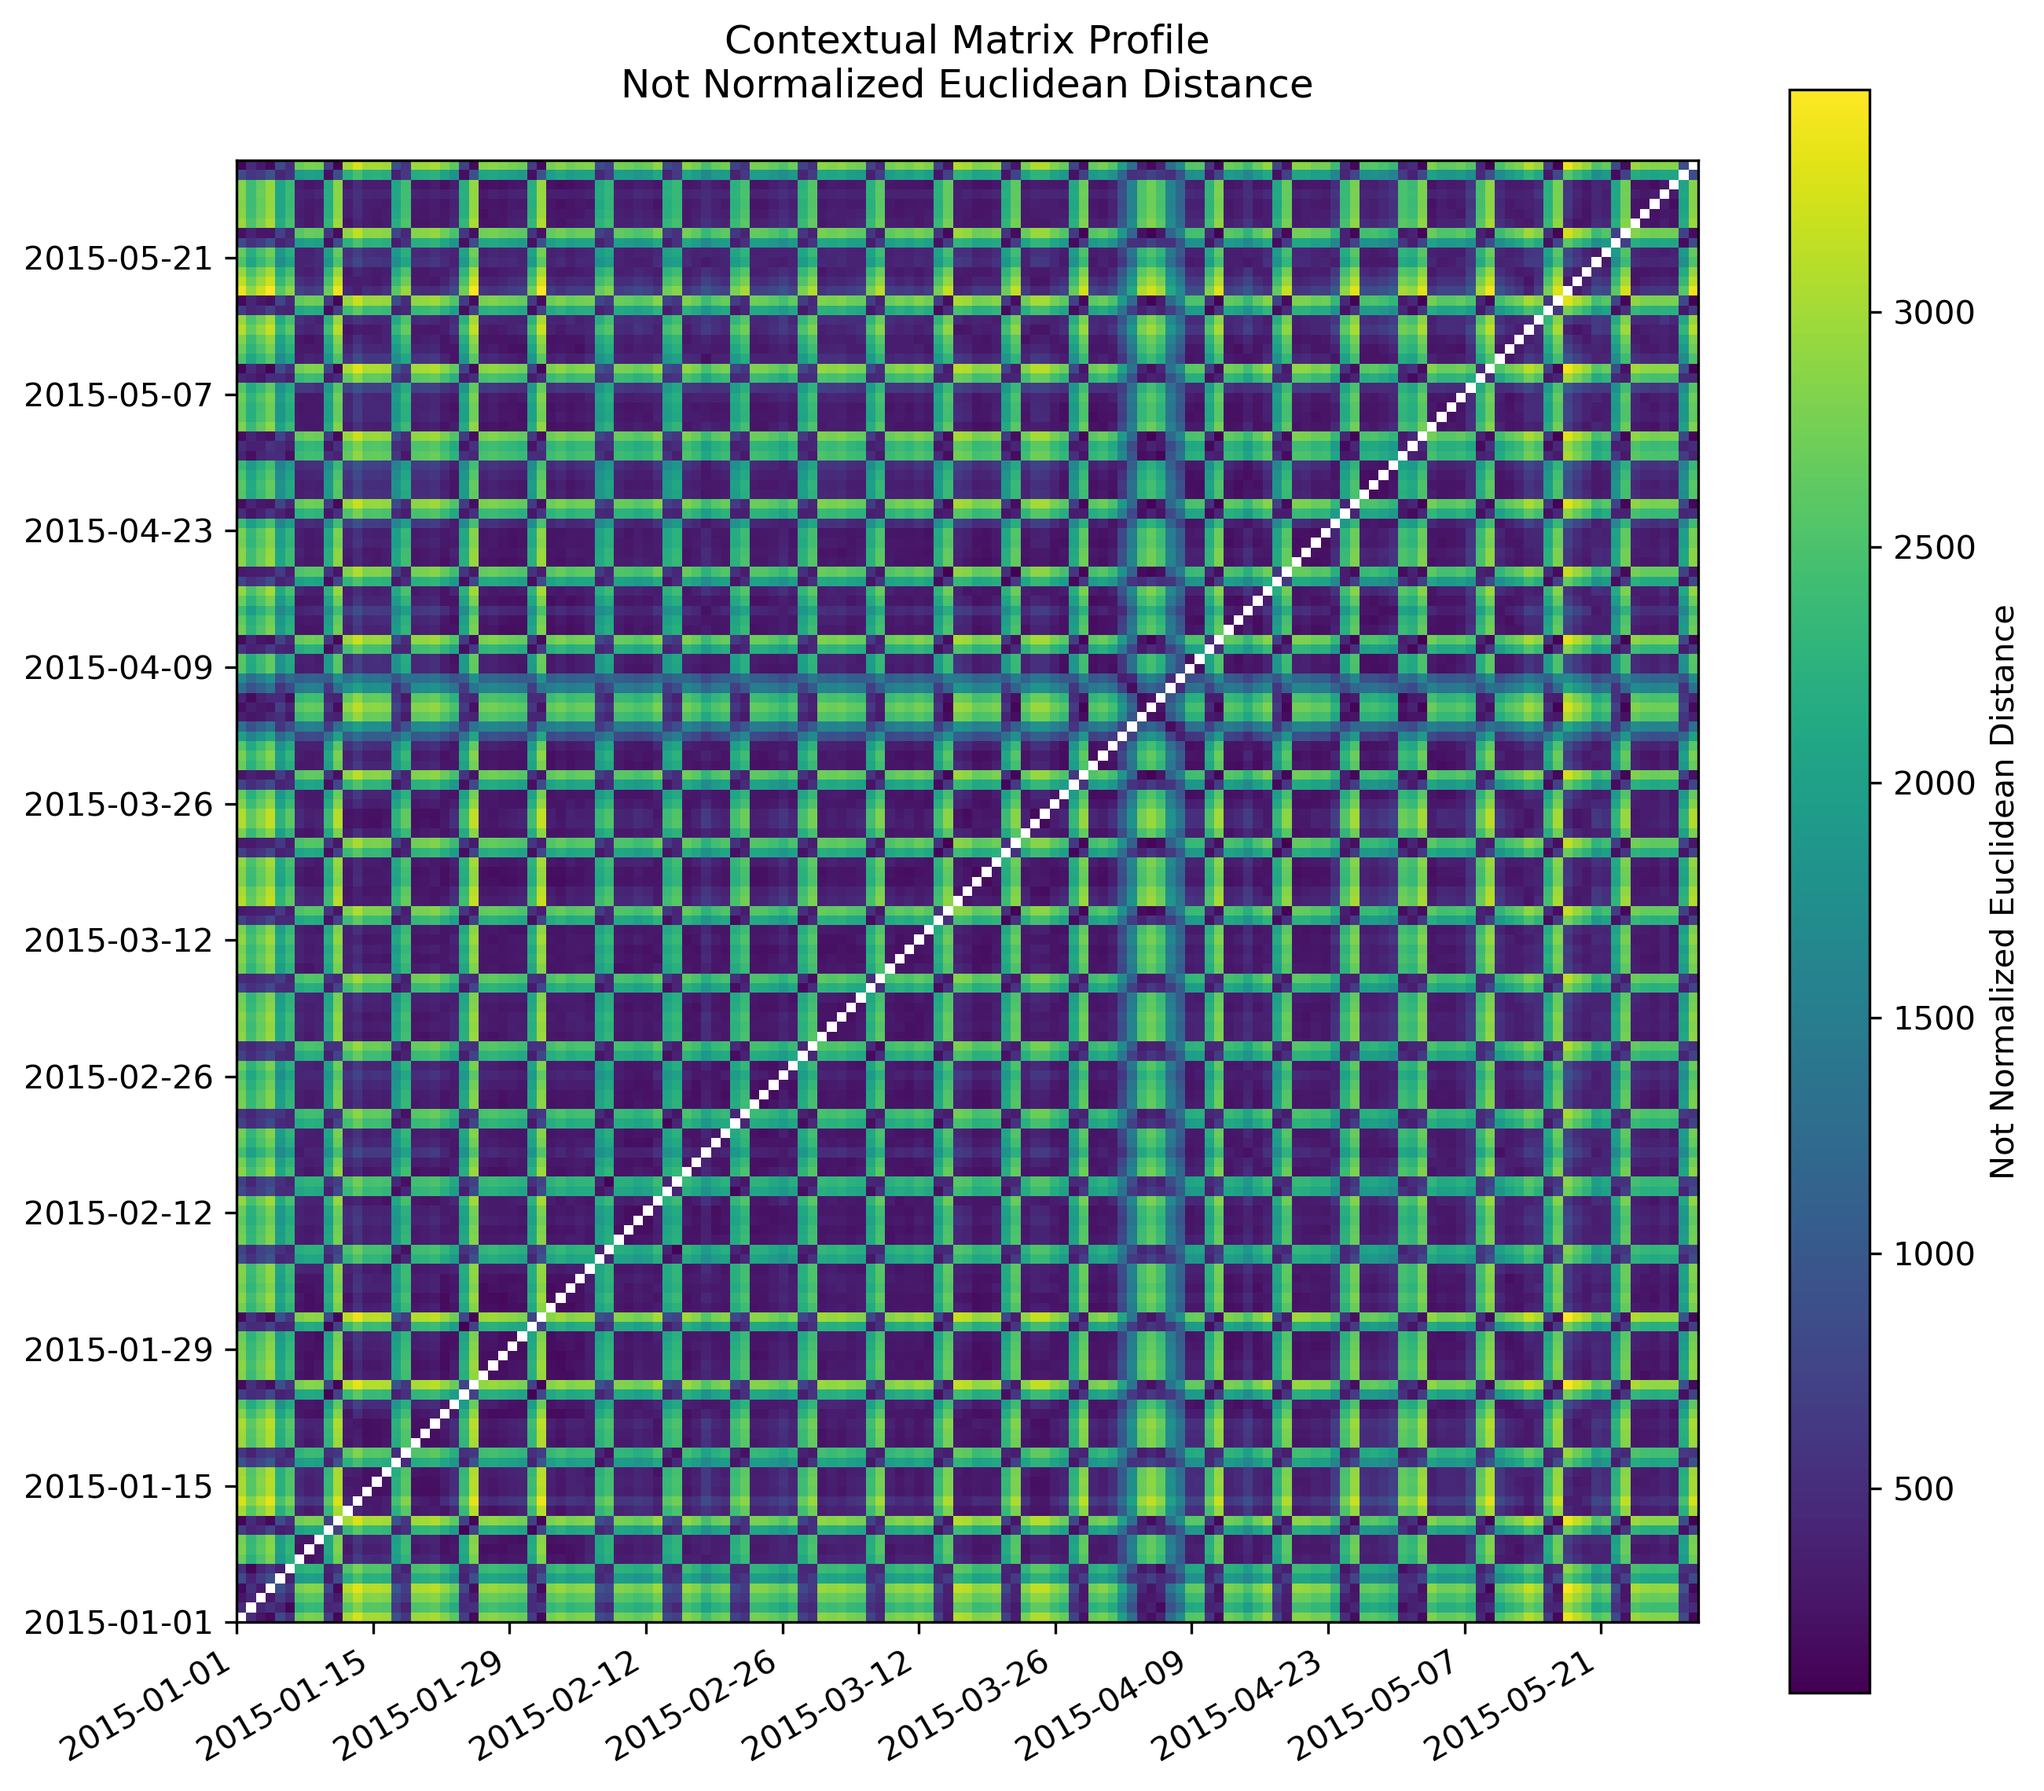
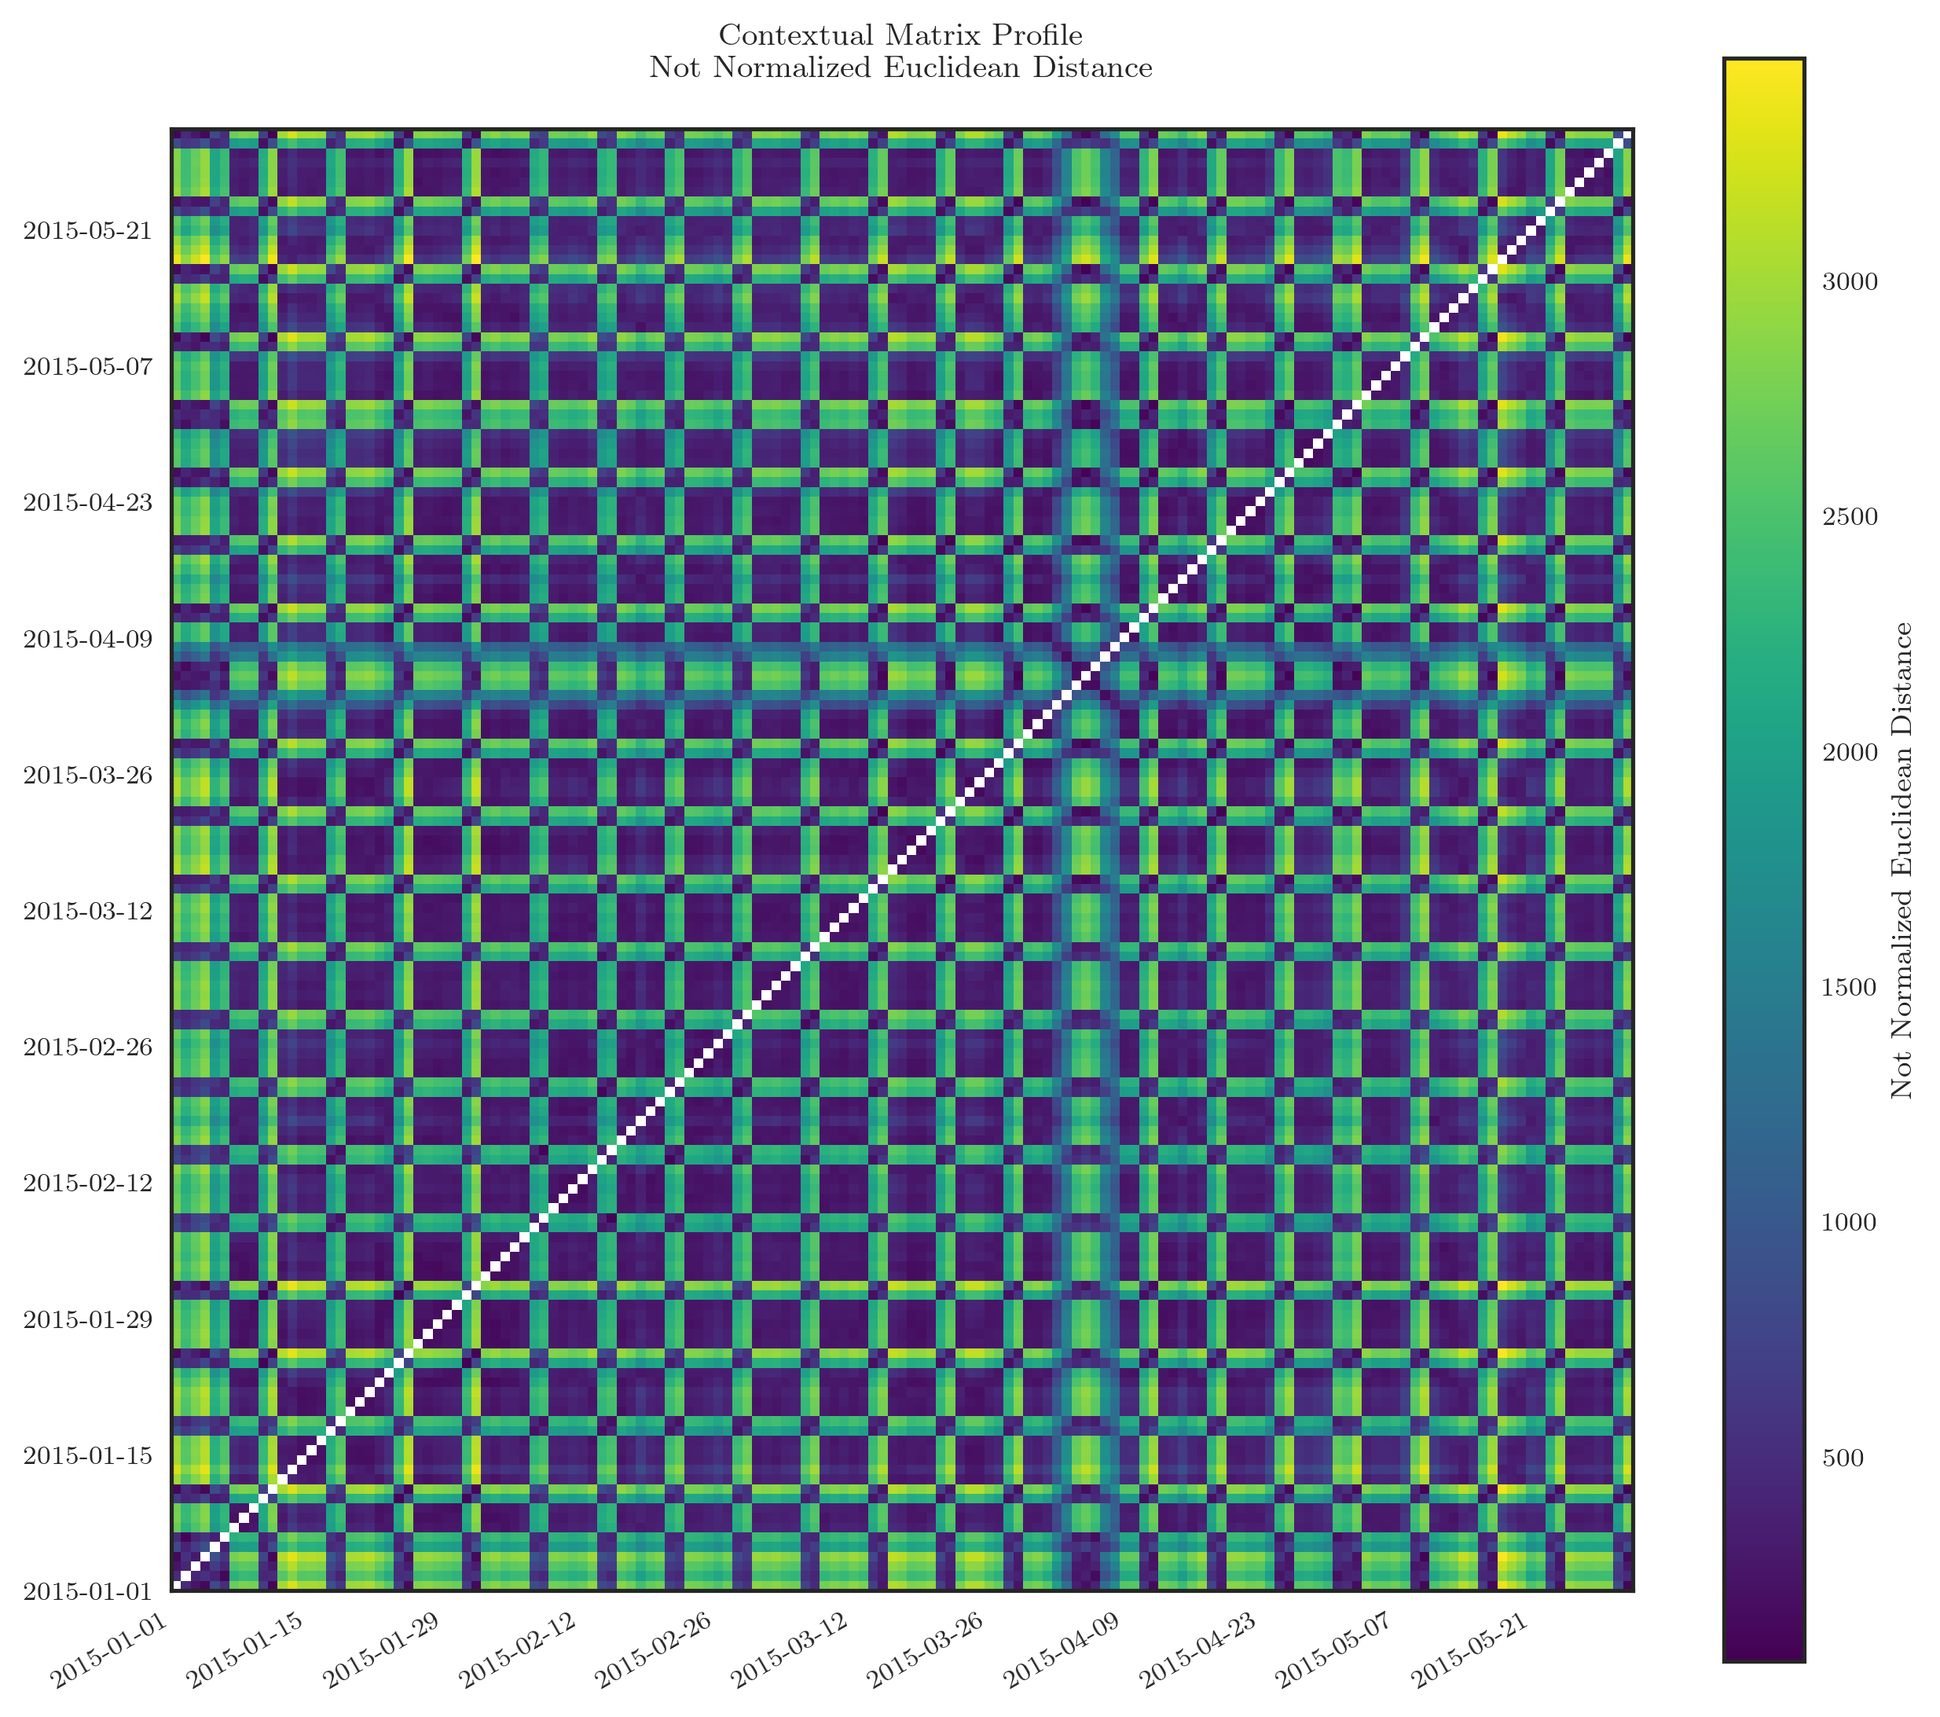
added generalization to code

diff --git a/Roberto Chiosa/CMP/Polito_Usecase_1.py b/Roberto Chiosa/CMP/Polito_Usecase_1.py
@@ -11,10 +11,66 @@ from distancematrix.generator import ZNormEuclidean, Euclidean
 from distancematrix.consumer import MatrixProfileLR, ContextualMatrixProfile
 from distancematrix.consumer.contextmanager import GeneralStaticManager
 
+from matplotlib import rc  # font plot
+from kneed import KneeLocator  # find knee of curve
+
 path_to_data = 'Polito_Usecase/data/'
 path_to_figures = 'Polito_Usecase/figures1/'
 color_palette = 'viridis'
 dpi_resolution = 300
+fontsize = 10
+# plt.style.use("seaborn-paper")
+rc('font', **{'family': 'serif', 'serif': ['Georgia']})
+plt.rcParams.update({'font.size': fontsize})
+rc('text', usetex=True)
+
+
+def CMP_plot(cmp, palette="viridis", title=None, xlabel=None, legendlabel=None, extent=None):
+    """
+    utils function used to plot the contextual matrix profile
+
+    :param cmp:
+    :param extent:
+    :param palette:
+    :param title:
+    :param xlabel:
+    :param legendlabel:
+    :return:
+    """
+
+    if extent is not None:
+        # no extent dates given
+        plt.imshow(cmp,
+                   cmap=palette,
+                   origin="lower",
+                   extent=extent
+                   )
+        # Label layout
+        plt.gca().xaxis.set_major_formatter(mdates.DateFormatter('%Y-%m-%d'))
+        plt.gca().yaxis.set_major_formatter(mdates.DateFormatter('%Y-%m-%d'))
+        plt.gca().xaxis.set_major_locator(mticker.MultipleLocator(14))
+        plt.gca().yaxis.set_major_locator(mticker.MultipleLocator(14))
+        plt.gcf().autofmt_xdate()
+
+    else:
+        # index as
+        plt.imshow(cmp,
+                   cmap=palette,
+                   origin="lower",
+                   vmin=np.min(cmp),
+                   vmax=np.max(cmp)
+                   )
+        plt.xlabel(xlabel)
+        ticks = list(range(0, len(cmp), int(len(cmp) / 5)))
+        plt.xticks(ticks)
+        plt.yticks(ticks)
+
+    cbar = plt.colorbar()
+
+    plt.title(title)
+    cbar.set_label(legendlabel)
+
+
 ########################################################################################
 # load dataset
 data = pd.read_csv(path_to_data + "polito.csv", index_col='timestamp', parse_dates=True)
@@ -28,8 +84,8 @@ print(' POLITO CASE STUDY\n',
       '- From\t', data.index[0], '\n',
       '- To\t', data.index[len(data) - 1], '\n',
       '-', len(data), 'observations every 15 min\n',
-      '-',obs_per_day,'\t observations per day\n',
-      '-',obs_per_hour,'\t observations per hour\n'
+      '-', obs_per_day, '\t observations per day\n',
+      '-', obs_per_hour, '\t observations per hour\n'
       )
 
 # Visualise the data
@@ -76,11 +132,12 @@ plt.savefig(path_to_figures + "polito.png", dpi=dpi_resolution, bbox_inches='tig
 # context time window length (hours)
 m_context = 2
 
-# time window length
-m = obs_per_day - obs_per_hour * m_context  # 22 hours
+# time window length 96 observations - 4 observation/hour * 2 hours = 88 observations = 22 hours
+m = obs_per_day - obs_per_hour * m_context
 
-# Each context starts between 0 and 2 AM, and lasts 22 hours
-contexts = GeneralStaticManager([range(x * obs_per_day, (x * obs_per_day) + obs_per_hour * m_context) for x in range(len(data) // obs_per_day)])
+# Each context starts between 0 and 2 AM (m_context = 2 hours), and lasts 22 hours (m = 88 observations)
+contexts = GeneralStaticManager(
+    [range(x * obs_per_day, (x * obs_per_day) + obs_per_hour * m_context) for x in range(len(data) // obs_per_day)])
 
 calc = AnytimeCalculator(m, data.values.T)
 
@@ -88,7 +145,6 @@ calc = AnytimeCalculator(m, data.values.T)
 # - OPTION 1
 # distance_string = 'Znormalized Euclidean Distance'
 # calc.add_generator(0, ZNormEuclidean())
-
 # - OPTION 2
 distance_string = 'Not Normalized Euclidean Distance'
 calc.add_generator(0, Euclidean())
@@ -106,34 +162,37 @@ calc.calculate_columns()
 # Visualise the whole CMP
 
 # calculate the date labels to define the extent of figure
-date_labels = mdates.date2num(data.index[::48 * 2].values)
+date_labels = mdates.date2num(data.index[::m].values)
 
 # plot CMP as matrix
 plt.figure(figsize=(10, 10))
-extents = [date_labels[0], date_labels[-1], date_labels[0], date_labels[-1]]
-plt.imshow(cmp.distance_matrix, extent=extents, cmap=color_palette, origin="lower")
-cbar = plt.colorbar()
-plt.title('Contextual Matrix Profile\n'+distance_string+'\n')
 
-# Label layout
-plt.gca().xaxis.set_major_formatter(mdates.DateFormatter('%Y-%m-%d'))
-plt.gca().yaxis.set_major_formatter(mdates.DateFormatter('%Y-%m-%d'))
-plt.gca().xaxis.set_major_locator(mticker.MultipleLocator(14))
-plt.gca().yaxis.set_major_locator(mticker.MultipleLocator(14))
-plt.gcf().autofmt_xdate()
-cbar.set_label(distance_string)
+extents = [date_labels[0], date_labels[-1], date_labels[0], date_labels[-1]]
+CMP_plot(cmp=cmp.distance_matrix,
+         palette=color_palette,
+         title='Contextual Matrix Profile\n' + distance_string + '\n',
+         legendlabel=distance_string,
+         extent=extents,
+         )
+
 
 plt.savefig(path_to_figures + "polito_cmp1.png", dpi=dpi_resolution, bbox_inches='tight')
 
 ########################################################################################
 # Create boolean arrays to indicate whether each day is a weekday/weekend/saturday/sunday
+# - holiday (calendar holidays and academic calendar closures)
+# - saturdays (not holidays not working days)
+# - workingdays (not holiday and not saturdays)
 
+# load data
 annotation_df = pd.read_csv(path_to_data + "polito_holiday.csv", index_col='timestamp', parse_dates=True)
 
+# define arrays
 holiday = np.array(annotation_df.T)[0]
 saturdays = np.array(annotation_df.T)[1]
 workingdays = np.array(annotation_df.T)[2]
 
+# set labels
 day_labels = data.index[::obs_per_day]
 
 # Create weekday/weekend only CMP
@@ -169,72 +228,49 @@ cmp_ad_score[workingdays] = cmp_workingdays_score
 # Ordering of all days, from most to least anomalous
 ad_order = np.argsort(cmp_ad_score)[::-1]
 
-num_anomalies_to_show = 15
+# set number of aomalies to show as the elbow of the curve
+x_ad = np.array(range(0, len(cmp_ad_score)))
+y_ad = cmp_ad_score[ad_order]
+kn = KneeLocator(x_ad, y_ad, curve='convex', direction='decreasing')
+num_anomalies_to_show = kn.knee
 
 # Plot the anomaly scores and our considered threshold
-plt.figure(figsize=(15, 3))
+plt.figure(figsize=(10, 5))
 plt.title("Sorted Anomaly Scores")
 plt.plot(cmp_ad_score[ad_order])
 plt.ylabel("Anomaly Score")
-
 plt.axvline(num_anomalies_to_show, ls=":", c="gray")
-plt.xticks([0, 10, 20, 50, 100, 150])
-plt.show()
+anomaly_ticks = list(range(0, len(ad_order), int(len(ad_order) / 5)))
+anomaly_ticks.append(num_anomalies_to_show)
+plt.xticks(anomaly_ticks)
 
-# Plot the above figures together
-plt.figure(figsize=(17, 2.5))
-plt.subplot(1, 4, 1)
-date_labels = mdates.date2num(holiday_dates)
-extents = [date_labels[0], date_labels[-1], date_labels[0], date_labels[-1]]
-plt.imshow(holiday_cmp,
-           cmap=color_palette,
-           origin="lower",
-           vmin=np.min(holiday_cmp),
-           vmax=np.max(holiday_cmp),
-           )
-cbar = plt.colorbar()
-plt.xlabel("Holiday Index")
-# plt.yticks([0, 50, 100, 150])
-plt.title("Power CMP (holiday only)")
-cbar.set_label("Distance")
+plt.savefig(path_to_figures + "polito_aggregated_as.png", dpi=dpi_resolution, bbox_inches='tight')
 
-plt.subplot(1, 4, 2)
-date_labels = mdates.date2num(saturday_dates)
-extents = [date_labels[0], date_labels[-1], date_labels[0], date_labels[-1]]
-plt.imshow(saturday_cmp,
-           cmap=color_palette,
-           origin="lower",
-           vmin=np.min(saturday_cmp),
-           vmax=np.max(saturday_cmp),
-           )
-cbar = plt.colorbar()
-plt.xlabel("Saturday Index")
-# plt.yticks([0, 10, 20, 30])
-plt.title("Power CMP (Saturday only)")
-cbar.set_label("Distance")
+# Plot the CMP together
+plt.figure(figsize=(10, 4))
 
-plt.subplot(1, 4, 3)
-date_labels = mdates.date2num(workingdays_dates)
-extents = [date_labels[0], date_labels[-1], date_labels[0], date_labels[-1]]
-plt.imshow(workingdays_cmp,
-           cmap=color_palette,
-           origin="lower",
-           vmin=np.min(workingdays_cmp),
-           vmax=np.max(workingdays_cmp),
-           )
-cbar = plt.colorbar()
-plt.xlabel("Working days Index")
-# plt.yticks([0, 10, 20])
-plt.title("Power CMP (Working days only)")
-cbar.set_label("Distance")
+plt.subplot(1, 3, 1)
+CMP_plot(cmp=holiday_cmp,
+         palette=color_palette,
+         title="Power CMP (holiday only)",
+         xlabel="Holiday Index",
+         legendlabel="Distance")
 
-plt.subplot(1, 4, 4)
-plt.title("Sorted Anomaly Scores")
-plt.plot(cmp_ad_score[ad_order])
-plt.ylabel("Anomaly Score")
+plt.subplot(1, 3, 2)
+CMP_plot(cmp=saturday_cmp,
+         palette=color_palette,
+         title="Power CMP (Saturday only)",
+         xlabel="Saturday Index",
+         legendlabel="Distance")
 
-plt.axvline(10, ls=":", c="gray")
-# plt.xticks([0, 18, 50, 100, 150, 200])
+plt.subplot(1, 3, 3)
+CMP_plot(cmp=workingdays_cmp,
+         palette=color_palette,
+         title="Power CMP (Working days  only)",
+         xlabel="Working days  Index",
+         legendlabel="Distance")
+
+plt.tight_layout()
 
 plt.savefig(path_to_figures + "polito_cmp_detail1.png", dpi=dpi_resolution, bbox_inches='tight')
 
@@ -276,21 +312,28 @@ for i in range(num_anomalies_to_show):
 
     ax[i, 0].plot(data.values.reshape((-1, obs_per_day)).T, c="gray", alpha=0.07)
     ax[i, 0].plot(data.values[anomaly_range], c="red")
+    ax[i, 0].set_ylim([0, 850])
+    ax[i, 0].set_yticks([0, 200, 400, 600, 800])
 
     ax[i, 1].plot(data.values.reshape((-1, obs_per_day))[holiday].T, c="gray", alpha=0.07)
     ax[i, 1].plot(data.values[anomaly_range], c="red", linestyle=ls1)
+    ax[i, 1].set_ylim([0, 850])
+    ax[i, 1].set_yticks([0, 200, 400, 600, 800])
 
     ax[i, 2].plot(data.values.reshape((-1, obs_per_day))[saturdays].T, c="gray", alpha=0.07)
     ax[i, 2].plot(data.values[anomaly_range], c="red", linestyle=ls2)
+    ax[i, 2].set_ylim([0, 850])
 
     ax[i, 3].plot(data.values.reshape((-1, obs_per_day))[workingdays].T, c="gray", alpha=0.07)
     ax[i, 3].plot(data.values[anomaly_range], c="red", linestyle=ls3)
+    ax[i, 3].set_ylim([0, 850])
+    ax[i, 3].set_yticks([0, 200, 400, 600, 800])
 
-    ax[i, 0].text(0, 650, "CMP-Anomaly " + str(i + 1))
-    ax[i, date_col].text(0, 650, date.day_name() + " " + str(date)[:10])
+    ax[i, 0].text(0, position_y, "CMP-Anomaly " + str(i + 1))
+    ax[i, date_col].text(0, position_y, date.day_name() + " " + str(date)[:10])
 
 ax[0, 0].set_xticks(range(0, 97, 24))
-ticklabels = ["{hour}:00".format(hour=(x // 4)) for x in range(0, 97, 24)]
+ticklabels = ["{hour}:00".format(hour=(x // obs_per_hour)) for x in range(0, 97, 24)]
 ticklabels[-1] = ""
 ax[0, 0].set_xticklabels(ticklabels)
 
